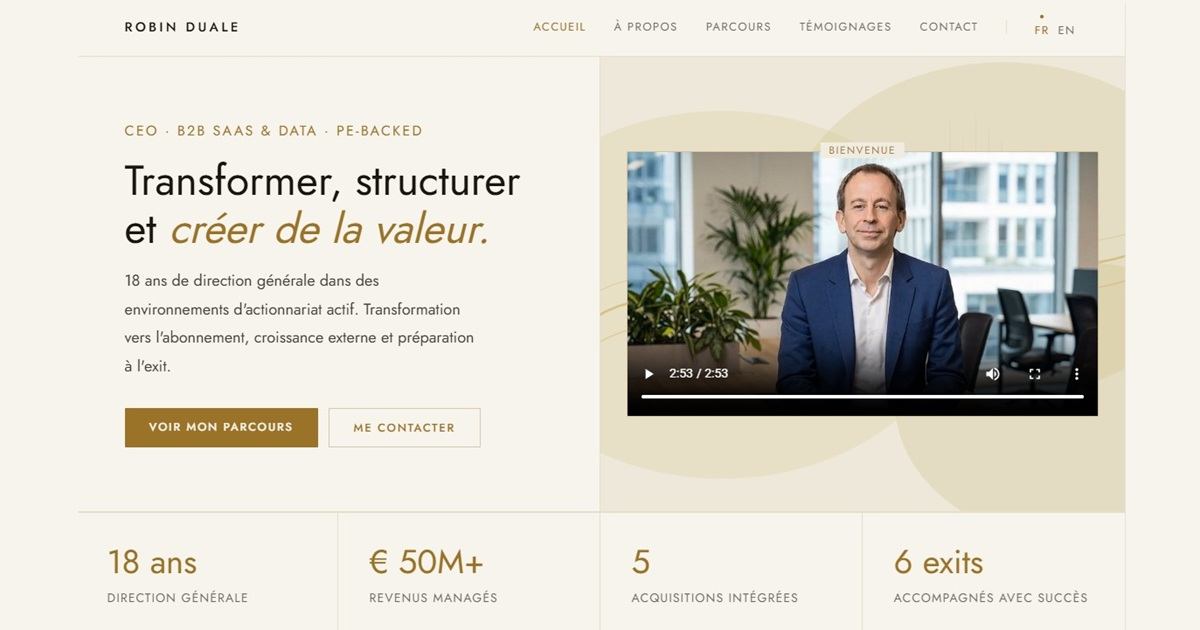
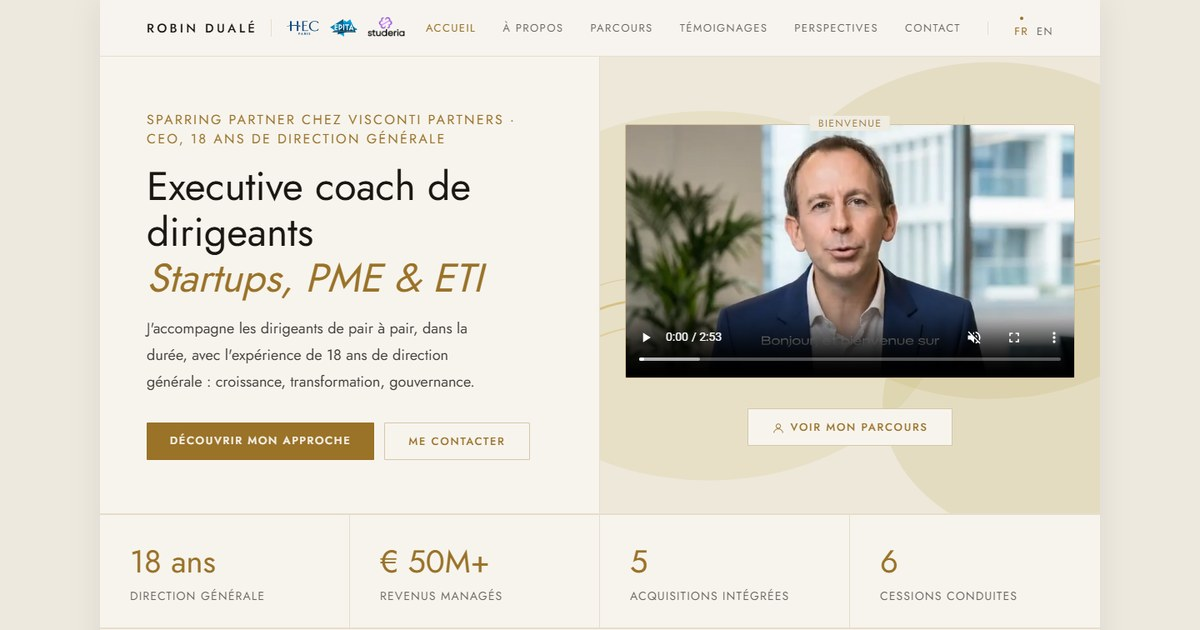
Add share preview, disable CV download, document repositioning rules
- New 1200x630 share preview (preview.jpg, Prévisualisation.jpg) captured
  from the new FR home page
- Home video: preload metadata and opening frame at 0.3s instead of an
  empty box
- "Download my CV" buttons commented out on 8 pages until an updated CV exists
- CLAUDE.md: new editorial positioning and the 2026-10-16 repositioning
  rules (no mandate wording, standard CTA and bio, WEKA and dates on the
  track record, VISCONTI logo, CV, preview image method)

diff --git a/fr/parcours.html b/fr/parcours.html
@@ -92,10 +92,12 @@
     <h1 class="page-title">De la direction générale<br><em>à l'accompagnement des dirigeants.</em></h1>
   </div>
   <div class="page-header-cta" style="margin-right:-56px;width:320px;display:flex;justify-content:center;flex-shrink:0;">
+  <!-- CV en telechargement desactive le 2026-10-16, a reactiver avec un CV a jour
   <a class="btn-outline" href="/assets/CV%20ROBIN%20DUALE%20(FR).pdf" download style="margin-bottom:4px;white-space:nowrap;">
     <svg width="14" height="14" viewBox="0 0 24 24" fill="none" stroke="currentColor" stroke-width="1.5" style="vertical-align:middle;margin-right:6px;"><path d="M21 15v4a2 2 0 01-2 2H5a2 2 0 01-2-2v-4"/><polyline points="7 10 12 15 17 10"/><line x1="12" y1="15" x2="12" y2="3"/></svg>
     Télécharger mon CV
   </a>
+  -->
   </div>
 </div>
 
@@ -428,10 +430,12 @@
         <svg width="14" height="14" viewBox="0 0 24 24" fill="none" stroke="rgba(154,114,40,0.7)" stroke-width="1.5"><path d="M16 8a6 6 0 016 6v7h-4v-7a2 2 0 00-2-2 2 2 0 00-2 2v7h-4v-7a6 6 0 016-6z"/><rect x="2" y="9" width="4" height="12"/><circle cx="4" cy="4" r="2"/></svg>
         VOIR MON PROFIL LINKEDIN
       </a>
+      <!-- CV en telechargement desactive le 2026-10-16, a reactiver avec un CV a jour
       <a class="btn-outline" href="/assets/CV%20ROBIN%20DUALE%20(FR).pdf" download style="display:block;text-align:center;margin-top:10px;white-space:nowrap;">
         <svg width="14" height="14" viewBox="0 0 24 24" fill="none" stroke="currentColor" stroke-width="1.5" style="vertical-align:middle;margin-right:6px;"><path d="M21 15v4a2 2 0 01-2 2H5a2 2 0 01-2-2v-4"/><polyline points="7 10 12 15 17 10"/><line x1="12" y1="15" x2="12" y2="3"/></svg>
         Télécharger mon CV
       </a>
+      -->
     </div>
 
   </div>

diff --git a/en/track-record.html b/en/track-record.html
@@ -83,10 +83,12 @@
     <h1 class="page-title">From general management<br><em>to supporting business leaders.</em></h1>
   </div>
   <div class="page-header-cta" style="margin-right:-56px;width:320px;display:flex;justify-content:center;flex-shrink:0;">
+  <!-- CV en telechargement desactive le 2026-10-16, a reactiver avec un CV a jour
   <a class="btn-outline" href="/assets/CV%20ROBIN%20DUALE%20(EN).pdf" download style="margin-bottom:4px;white-space:nowrap;">
     <svg width="14" height="14" viewBox="0 0 24 24" fill="none" stroke="currentColor" stroke-width="1.5" style="vertical-align:middle;margin-right:6px;"><path d="M21 15v4a2 2 0 01-2 2H5a2 2 0 01-2-2v-4"/><polyline points="7 10 12 15 17 10"/><line x1="12" y1="15" x2="12" y2="3"/></svg>
     Download my CV
   </a>
+  -->
   </div>
 </div>
 
@@ -363,10 +365,12 @@
         <svg width="14" height="14" viewBox="0 0 24 24" fill="none" stroke="rgba(154,114,40,0.7)" stroke-width="1.5"><path d="M16 8a6 6 0 016 6v7h-4v-7a2 2 0 00-2-2 2 2 0 00-2 2v7h-4v-7a6 6 0 016-6z"/><rect x="2" y="9" width="4" height="12"/><circle cx="4" cy="4" r="2"/></svg>
         VIEW MY LINKEDIN PROFILE
       </a>
+      <!-- CV en telechargement desactive le 2026-10-16, a reactiver avec un CV a jour
       <a class="btn-outline" href="/assets/CV%20ROBIN%20DUALE%20(EN).pdf" download style="display:block;text-align:center;margin-top:10px;white-space:nowrap;">
         <svg width="14" height="14" viewBox="0 0 24 24" fill="none" stroke="currentColor" stroke-width="1.5" style="vertical-align:middle;margin-right:6px;"><path d="M21 15v4a2 2 0 01-2 2H5a2 2 0 01-2-2v-4"/><polyline points="7 10 12 15 17 10"/><line x1="12" y1="15" x2="12" y2="3"/></svg>
         Download my CV
       </a>
+      -->
     </div>
 
   </div>

diff --git a/fr/index.html b/fr/index.html
@@ -196,8 +196,8 @@
     <div style="display:flex;flex-direction:column;align-items:center;gap:36px;width:90%;position:relative;z-index:2;">
       <div class="video-block fade-up-2" style="width:100%;">
         <span class="video-label-top">BIENVENUE</span>
-        <video controls muted playsinline title="Présentation vidéo de Robin Dualé" style="width:100%;height:100%;object-fit:cover;border-radius:1px;">
-          <source src="/assets/presentation-fr.mp4" type="video/mp4"/>
+        <video controls muted playsinline preload="metadata" title="Présentation vidéo de Robin Dualé" style="width:100%;height:100%;object-fit:cover;border-radius:1px;">
+          <source src="/assets/presentation-fr.mp4#t=0.3" type="video/mp4"/>
         </video>
       </div>
       <a class="btn-outline" href="/fr/parcours.html" style="white-space:nowrap;background:#f7f4ee;"><svg width="16" height="16" viewBox="0 0 24 24" fill="none" stroke="currentColor" stroke-width="1.5" style="vertical-align:middle;margin-right:6px;"><circle cx="12" cy="8" r="4"/><path d="M4 20c0-4 3.6-7 8-7s8 3 8 7"/></svg>Voir mon parcours</a>

diff --git a/en/index.html b/en/index.html
@@ -195,8 +195,8 @@
     <div style="display:flex;flex-direction:column;align-items:center;gap:36px;width:90%;position:relative;z-index:2;">
       <div class="video-block fade-up-2" style="width:100%;">
         <span class="video-label-top">WELCOME</span>
-        <video controls muted playsinline title="Video presentation of Robin Dualé" style="width:100%;height:100%;object-fit:cover;border-radius:1px;">
-          <source src="/assets/presentation-en.mp4" type="video/mp4"/>
+        <video controls muted playsinline preload="metadata" title="Video presentation of Robin Dualé" style="width:100%;height:100%;object-fit:cover;border-radius:1px;">
+          <source src="/assets/presentation-en.mp4#t=0.3" type="video/mp4"/>
         </video>
       </div>
       <a class="btn-outline" href="/en/track-record.html" style="white-space:nowrap;background:#f7f4ee;"><svg width="16" height="16" viewBox="0 0 24 24" fill="none" stroke="currentColor" stroke-width="1.5" style="vertical-align:middle;margin-right:6px;"><circle cx="12" cy="8" r="4"/><path d="M4 20c0-4 3.6-7 8-7s8 3 8 7"/></svg>View track record</a>

diff --git a/fr/a-propos.html b/fr/a-propos.html
@@ -238,10 +238,12 @@
         <svg width="14" height="14" viewBox="0 0 24 24" fill="none" stroke="rgba(154,114,40,0.7)" stroke-width="1.5"><path d="M16 8a6 6 0 016 6v7h-4v-7a2 2 0 00-2-2 2 2 0 00-2 2v7h-4v-7a6 6 0 016-6z"/><rect x="2" y="9" width="4" height="12"/><circle cx="4" cy="4" r="2"/></svg>
         VOIR MON PROFIL LINKEDIN
       </a>
+      <!-- CV en telechargement desactive le 2026-10-16, a reactiver avec un CV a jour
       <a class="btn-outline" href="/assets/CV%20ROBIN%20DUALE%20(FR).pdf" download style="display:block;text-align:center;margin-top:10px;white-space:nowrap;">
         <svg width="14" height="14" viewBox="0 0 24 24" fill="none" stroke="currentColor" stroke-width="1.5" style="vertical-align:middle;margin-right:6px;"><path d="M21 15v4a2 2 0 01-2 2H5a2 2 0 01-2-2v-4"/><polyline points="7 10 12 15 17 10"/><line x1="12" y1="15" x2="12" y2="3"/></svg>
         Télécharger mon CV
       </a>
+      -->
     </div>
   </div>
 </div>

diff --git a/fr/perspectives/index.html b/fr/perspectives/index.html
@@ -145,10 +145,12 @@
         <svg width="14" height="14" viewBox="0 0 24 24" fill="none" stroke="rgba(154,114,40,0.7)" stroke-width="1.5"><path d="M16 8a6 6 0 016 6v7h-4v-7a2 2 0 00-2-2 2 2 0 00-2 2v7h-4v-7a6 6 0 016-6z"/><rect x="2" y="9" width="4" height="12"/><circle cx="4" cy="4" r="2"/></svg>
         VOIR MON PROFIL LINKEDIN
       </a>
+      <!-- CV en telechargement desactive le 2026-10-16, a reactiver avec un CV a jour
       <a class="btn-outline" href="/assets/CV%20ROBIN%20DUALE%20(FR).pdf" download style="display:block;text-align:center;margin-top:10px;white-space:nowrap;">
         <svg width="14" height="14" viewBox="0 0 24 24" fill="none" stroke="currentColor" stroke-width="1.5" style="vertical-align:middle;margin-right:6px;"><path d="M21 15v4a2 2 0 01-2 2H5a2 2 0 01-2-2v-4"/><polyline points="7 10 12 15 17 10"/><line x1="12" y1="15" x2="12" y2="3"/></svg>
         Télécharger mon CV
       </a>
+      -->
     </div>
   </div>
 </div>

diff --git a/en/about.html b/en/about.html
@@ -202,10 +202,12 @@
         <svg width="14" height="14" viewBox="0 0 24 24" fill="none" stroke="rgba(154,114,40,0.7)" stroke-width="1.5"><path d="M16 8a6 6 0 016 6v7h-4v-7a2 2 0 00-2-2 2 2 0 00-2 2v7h-4v-7a6 6 0 016-6z"/><rect x="2" y="9" width="4" height="12"/><circle cx="4" cy="4" r="2"/></svg>
         VIEW MY LINKEDIN PROFILE
       </a>
+      <!-- CV en telechargement desactive le 2026-10-16, a reactiver avec un CV a jour
       <a class="btn-outline" href="/assets/CV%20ROBIN%20DUALE%20(EN).pdf" download style="display:block;text-align:center;margin-top:10px;white-space:nowrap;">
         <svg width="14" height="14" viewBox="0 0 24 24" fill="none" stroke="currentColor" stroke-width="1.5" style="vertical-align:middle;margin-right:6px;"><path d="M21 15v4a2 2 0 01-2 2H5a2 2 0 01-2-2v-4"/><polyline points="7 10 12 15 17 10"/><line x1="12" y1="15" x2="12" y2="3"/></svg>
         Download my CV
       </a>
+      -->
     </div>
   </div>
 </div>

diff --git a/en/perspectives/index.html b/en/perspectives/index.html
@@ -145,10 +145,12 @@
         <svg width="14" height="14" viewBox="0 0 24 24" fill="none" stroke="rgba(154,114,40,0.7)" stroke-width="1.5"><path d="M16 8a6 6 0 016 6v7h-4v-7a2 2 0 00-2-2 2 2 0 00-2 2v7h-4v-7a6 6 0 016-6z"/><rect x="2" y="9" width="4" height="12"/><circle cx="4" cy="4" r="2"/></svg>
         VIEW MY LINKEDIN PROFILE
       </a>
+      <!-- CV en telechargement desactive le 2026-10-16, a reactiver avec un CV a jour
       <a class="btn-outline" href="/assets/CV%20ROBIN%20DUALE%20(EN).pdf" download style="display:block;text-align:center;margin-top:10px;white-space:nowrap;">
         <svg width="14" height="14" viewBox="0 0 24 24" fill="none" stroke="currentColor" stroke-width="1.5" style="vertical-align:middle;margin-right:6px;"><path d="M21 15v4a2 2 0 01-2 2H5a2 2 0 01-2-2v-4"/><polyline points="7 10 12 15 17 10"/><line x1="12" y1="15" x2="12" y2="3"/></svg>
         Download my CV
       </a>
+      -->
     </div>
   </div>
 </div>

diff --git a/en/contact.html b/en/contact.html
@@ -95,10 +95,12 @@
     <h1 class="page-title">Let's talk about your challenges as a leader,<br><em>starting with a first conversation.</em></h1>
   </div>
   <div class="page-header-cta" style="margin-right:-56px;width:320px;display:flex;justify-content:center;flex-shrink:0;">
+  <!-- CV en telechargement desactive le 2026-10-16, a reactiver avec un CV a jour
   <a class="btn-outline" href="/assets/CV%20ROBIN%20DUALE%20(EN).pdf" download style="margin-bottom:4px;white-space:nowrap;">
     <svg width="14" height="14" viewBox="0 0 24 24" fill="none" stroke="currentColor" stroke-width="1.5" style="vertical-align:middle;margin-right:6px;"><path d="M21 15v4a2 2 0 01-2 2H5a2 2 0 01-2-2v-4"/><polyline points="7 10 12 15 17 10"/><line x1="12" y1="15" x2="12" y2="3"/></svg>
     Download my CV
   </a>
+  -->
   </div>
 </div>
 

diff --git a/fr/contact.html b/fr/contact.html
@@ -102,10 +102,12 @@
     <h1 class="page-title">Parlons de vos enjeux de dirigeant,<br><em>le temps d'un premier échange.</em></h1>
   </div>
   <div class="page-header-cta" style="margin-right:-56px;width:320px;display:flex;justify-content:center;flex-shrink:0;">
+  <!-- CV en telechargement desactive le 2026-10-16, a reactiver avec un CV a jour
   <a class="btn-outline" href="/assets/CV%20ROBIN%20DUALE%20(FR).pdf" download style="margin-bottom:4px;white-space:nowrap;">
     <svg width="14" height="14" viewBox="0 0 24 24" fill="none" stroke="currentColor" stroke-width="1.5" style="vertical-align:middle;margin-right:6px;"><path d="M21 15v4a2 2 0 01-2 2H5a2 2 0 01-2-2v-4"/><polyline points="7 10 12 15 17 10"/><line x1="12" y1="15" x2="12" y2="3"/></svg>
     Télécharger mon CV
   </a>
+  -->
   </div>
 </div>
 

diff --git a/CLAUDE.md b/CLAUDE.md
@@ -824,12 +824,30 @@ Les blocs `.geo-list` dans les sidebars des pages de positionnement peuvent cont
 
 ---
 
-## Positionnement éditorial
+## Positionnement éditorial (depuis le 2026-10-16)
 
-- **Secteurs** : BtoC ou B2B, SaaS, Data, e-commerce
-- **Contextes** : PE (private equity), family office
-- **Ne pas modifier** : pages parcours/track-record (positionnement figé)
-- **Modifier si besoin** : CTAs articles, sidebars articles, llms.txt, llms-fr.txt
+Robin est **executive coach et sparring partner chez VISCONTI Partners** et accompagne les dirigeants de startups, PME et ETI. Ses 18 ans de direction générale servent de preuve de légitimité ; le site ne le présente plus comme un CEO en recherche de mandat. Le site suit son profil LinkedIn, mis à jour en octobre 2026 : en cas de doute sur un intitulé, une date ou un texte, LinkedIn fait foi.
+
+- **Cible** : dirigeants de startups, PME et ETI, dans des contextes entrepreneuriaux, familiaux, de groupe ou sous fonds d'investissement. Ancrage Savoie, Haute-Savoie, axe Lyon-Genève, Paris.
+- **Coloration** : digital et IA, jamais en offre autonome.
+- **Secteurs d'expérience** (ce sont des preuves, pas la cible) : BtoC ou B2B, SaaS, Data, e-commerce, information professionnelle.
+- **Registre** : les pages cœur (accueil, à propos) reprennent les textes validés de LinkedIn, accroche interrogative comprise. Les articles Perspectives gardent le registre de note stratégique décrit plus haut.
+
+## Repositionnement du 2026-10-16, règles à ne pas défaire
+
+- **Aucune mention de disponibilité pour un mandat**, nulle part : ni « disponible pour un mandat de CEO », ni « available for a new role », ni schéma `seeks` / `Demand`, ni titre d'appel à l'action adressé à un recruteur (« Vous recherchez un CEO… », « Vous pilotez une recherche de CEO ? »). La recherche de mandat de Robin est en veille.
+- **Appel à l'action standard des articles et pages de positionnement** (le titre peut rester contextuel s'il parle à un dirigeant, par exemple « Vous préparez ou intégrez une acquisition ? ») :
+  - FR : « J'accompagne les dirigeants de startups, PME et ETI comme executive coach et sparring partner chez VISCONTI Partners. Si ces enjeux se posent dans votre entreprise, échangeons directement. » Titre par défaut : « Ces sujets vous concernent ? »
+  - EN : « I support the leaders of startups, SMEs and mid-market companies as an executive coach and sparring partner at VISCONTI Partners. If these challenges are on your agenda, let's talk directly. » Titre par défaut : « Do these challenges resonate? »
+- **Bio auteur des articles** : « Executive coach et sparring partner chez VISCONTI Partners. 18 ans de direction générale, à la tête de neuf sociétés. » / « Executive coach and sparring partner at VISCONTI Partners. 18 years in general management, leading nine companies. » `new_article.py` génère déjà ces deux textes.
+- **Schéma.org** : `jobTitle` « Executive coach et sparring partner » / « Executive coach and sparring partner », `worksFor` VISCONTI Partners. Plus de bloc `LocalBusiness`.
+- **Parcours / track record** : modifiable désormais (l'ancienne règle « positionnement figé » est levée). Visconti en tête de frise avec le logo officiel (`assets/visconti-logo-horizontal.png`, ne pas le retoucher). Les périodes et les textes ne portent que des années, jamais de mois. Chaque société apparaît sous son propre nom, sans « · Groupe WEKA France » ni phrase de rattachement au groupe ; WEKA ne reste que dans l'entrée Groupe WEKA France et dans le regroupement des formations de Comundi, comme sur LinkedIn. Quick-FDS s'écrit « 3E France (ex Quick-FDS) ».
+- **Marque VISCONTI** : logo officiel sur le parcours seulement, pas sur l'accueil (décision de Robin). L'article 3 du contrat de partenariat encadre l'usage des Marques, et l'Annexe 4 soumet à la Practice Marketing de Visconti tout article ou post qui engage le collectif.
+- **Pages de positionnement** (CEO SaaS LBO, build-up…) : gardées en ligne et en noindex Google, seul l'appel à l'action a été réécrit.
+- **CV en téléchargement désactivé** : les 10 boutons « Télécharger mon CV » sont en commentaire HTML (`CV en telechargement desactive le 2026-10-16`). Les PDF `assets/CV ROBIN DUALE (FR|EN).pdf` datent d'avant Visconti : ne pas réactiver sans CV à jour.
+- **Photo de profil** : `assets/robin-duale.jpg` est la photo du profil LinkedIn, recadrée légèrement.
+- **Vidéo de l'accueil** : plus de lecture automatique ; `preload="metadata"` et `#t=0.3` sur la source pour afficher une image d'ouverture au lieu d'un cadre vide.
+- **Image d'aperçu des partages** (`preview.jpg` et `Prévisualisation.jpg`, 1200×630) : capture de l'accueil FR par Edge sans interface à 1440×860, recadrée sur 1440×756 (sans le bandeau cookies) puis réduite à 1200×630. Refaire la capture si l'accueil change.
 
 ---
 
